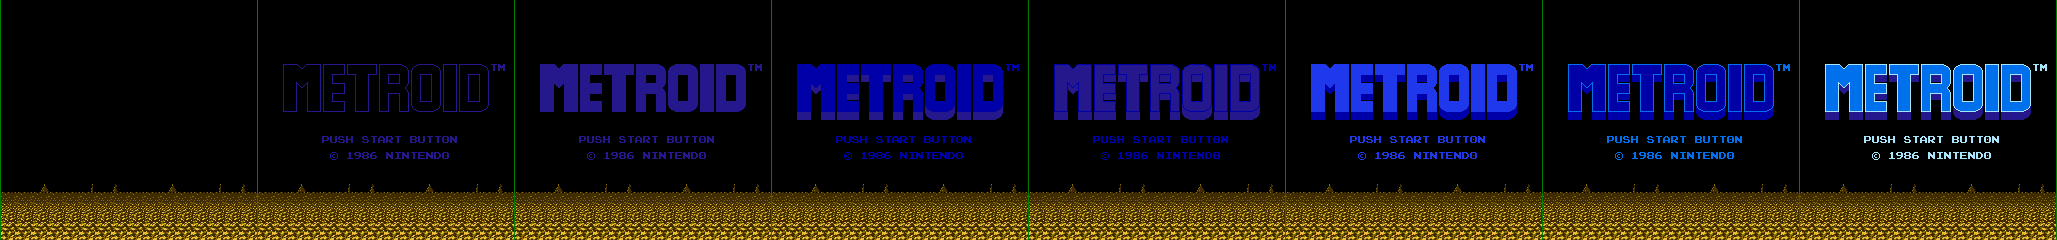
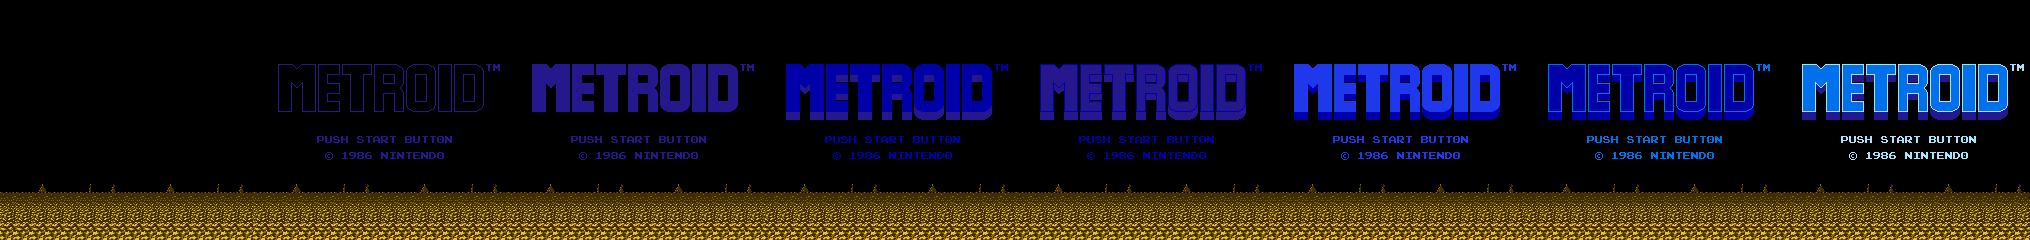
Title screen

diff --git a/Metroid_Game/StartScreen.cpp b/Metroid_Game/StartScreen.cpp
@@ -9,8 +9,10 @@ StartScreen::StartScreen(const Point2f& position)
 	, m_pTexture{ nullptr }
 	, m_AmountOfFrames{ 8 }
 	, m_pAnimation{new Animation(m_AmountOfFrames, 0.2f)}
+
 {
 	m_pTexture = TextureManager::GetInstance().CreateTexture("StartScreen");
+	m_pEndTexture = TextureManager::GetInstance().CreateTexture("StartScreen_end");
 
 	m_Boundaries.width = m_pTexture->GetWidth() / m_AmountOfFrames;
 	m_Boundaries.height = m_pTexture->GetHeight();
@@ -34,7 +36,8 @@ void StartScreen::Draw() const
 	srcRect.height = m_Boundaries.height;
 
 
-	if (m_pAnimation->m_AnimationFrame >= m_AmountOfFrames)
+	
+	if (m_pAnimation->m_AnimationFrame >= m_AmountOfFrames && !m_Continue)
 	{
 		srcRect.left = m_pTexture->GetWidth() - m_pTexture->GetWidth() / m_AmountOfFrames;
 	}
@@ -42,11 +45,23 @@ void StartScreen::Draw() const
 	float scale = 3.35f;
 	glPushMatrix();
 		glScalef(scale, scale, 0);
-		m_pTexture->Draw(m_Boundaries, srcRect);
+		if (!m_Continue)
+		{
+			m_pTexture->Draw(m_Boundaries, srcRect);
+		}
+		else if(m_Continue)
+		{
+			m_pEndTexture->Draw(m_Boundaries, srcRect);
+		}
 	glPopMatrix();
 }
 
 void StartScreen::Update(float elapsedSec)
 {
 	m_pAnimation->Update(elapsedSec);
+
+	if (m_pAnimation->m_AnimationFrame >= m_AmountOfFrames)
+	{
+		m_HasPlayed = true;
+	}
 }

diff --git a/Metroid_Game/Screen.cpp b/Metroid_Game/Screen.cpp
@@ -6,6 +6,8 @@ Screen::Screen(const Point2f& position)
 	: m_IsActive{ true }
 	, m_ScreenPos{ position }
 	, m_Boundaries {}
+	, m_Continue{ false }
+	, m_HasPlayed{ false }
 {
 	m_Boundaries.left = position.x;
 	m_Boundaries.bottom = position.y;
@@ -28,4 +30,15 @@ void Screen::SetIsActive(bool value)
 bool Screen::IsActive()
 {
 	return m_IsActive;
+}
+
+bool Screen::HasPlayed()
+{
+	//m_Continue = true;
+	return m_HasPlayed;
+}
+
+void Screen::Continue(bool value)
+{
+	m_Continue = value;
 }

diff --git a/Metroid_Game/Game.cpp b/Metroid_Game/Game.cpp
@@ -116,7 +116,12 @@ void Game::ProcessKeyUpEvent( const SDL_KeyboardEvent& e )
 	case SDLK_SPACE:
 		if (ScreenManager::GetInstance().GetCurrent()->IsActive())
 		{
-			ScreenManager::GetInstance().GetCurrent()->SetIsActive(false);
+			if (ScreenManager::GetInstance().GetCurrent()->HasPlayed())
+			{
+				ScreenManager::GetInstance().GetCurrent()->Continue(true);
+			}
+			//ScreenManager::GetInstance().GetCurrent()->SetIsActive(false);
+
 		}
 		break;
 	case SDLK_m:

diff --git a/Metroid_Game/Screen.h b/Metroid_Game/Screen.h
@@ -11,12 +11,18 @@ public:
 
 	Rectf GetBoundaries() const;
 	void SetIsActive(bool value);
+	
 	bool IsActive();
+	bool HasPlayed();
+	void Continue(bool value);
 
 protected:
 	bool m_IsActive{};
+	bool m_HasPlayed;
+
 	const Point2f m_ScreenPos;
 	Rectf m_Boundaries;
+	bool m_Continue;
 
 };
 

diff --git a/Metroid_Game/StartScreen.h b/Metroid_Game/StartScreen.h
@@ -15,8 +15,10 @@ public:
 
 private:
 	Texture* m_pTexture;
+	Texture* m_pEndTexture;
 	Animation* m_pAnimation;
 
 	const int m_AmountOfFrames;
+
 };
 
